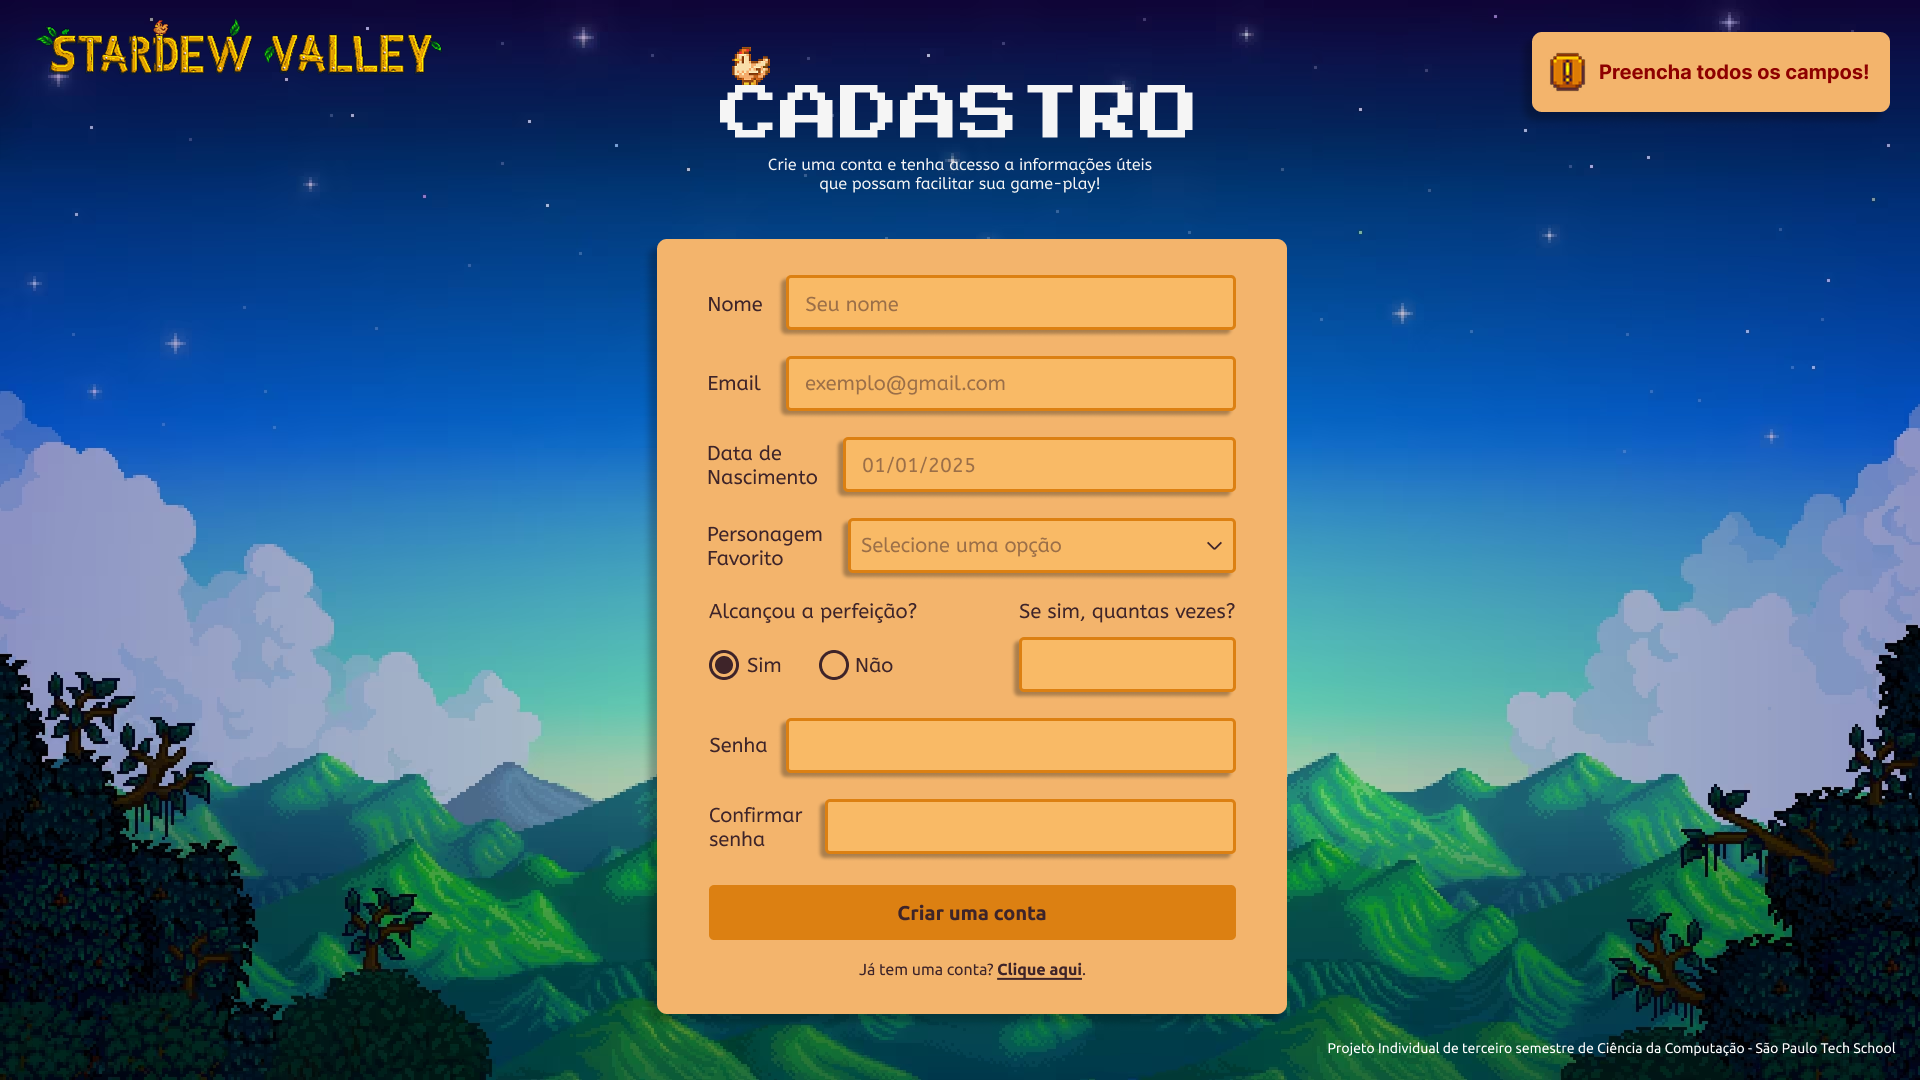
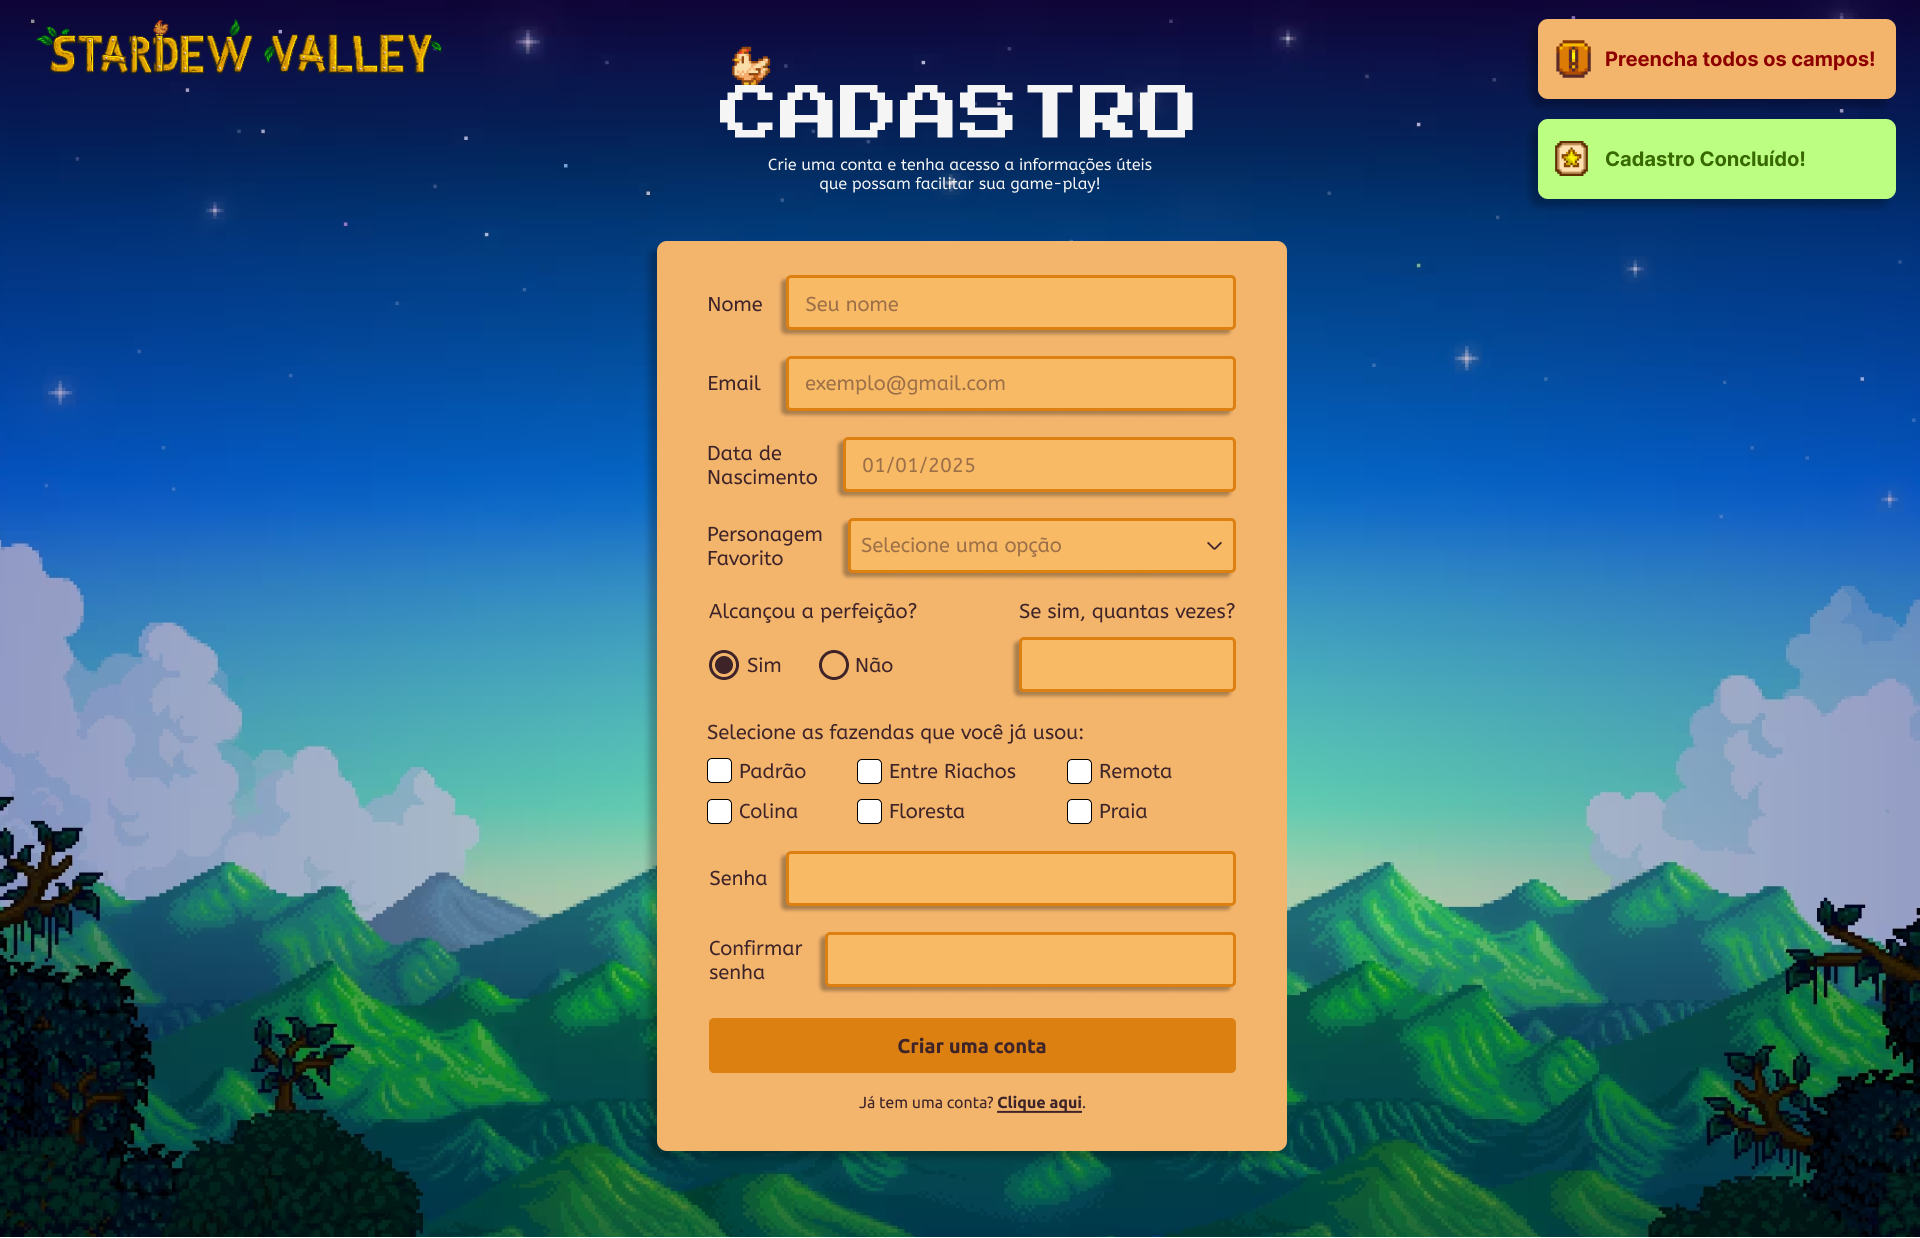
Correção da modelagem e adição do campo fazenda

diff --git a/application/style.css b/application/style.css
@@ -12,13 +12,14 @@ html{
 
 body{
     background-image: url('./assets/images/fundo.png');
-    background-size: cover;
-    background-position: center;
+    /* background-size: cover; */
+    /* background-position: center; */
     background-repeat: no-repeat;
 
     display: flex;
     justify-content: space-between;
     padding: 10px 20px;
+    padding-bottom: 30px;
 }
 
 .logo{
@@ -45,6 +46,21 @@ body{
         width: 38px;
         height: 38px;
         margin-right: 5px;
+    }
+}
+
+.sucesso{
+    background-color: #BCFE82;
+    padding: 12.5px;
+
+    span{
+        color: #386900;
+        margin-left: 5px;
+    }
+
+    img{
+        width: 29px;
+        height: 29px;
     }
 }
 
@@ -87,8 +103,8 @@ body{
     flex-direction: column;
     background-color: #F3B46C;
     border-radius: 5px;
-    padding: 20px 30px 15px 30px;
-    gap: 15px;
+    padding: 25px 30px 20px 30px;
+    gap: 18px;
     color: #3E2429;
     box-shadow: -6px 6px 6px 1px #0000005d;
 }
@@ -103,7 +119,7 @@ body{
 
 .formulario button, select, input{
     font-size: 12px;
-    height: 32px;
+    height: 36px;
     width: 100%;
 }
 
@@ -201,4 +217,29 @@ input[type="date"] {
 input[type="date"]::-webkit-calendar-picker-indicator {
     display: none;
     -webkit-appearance: none;
+}
+
+.opcoes{
+    display: flex;
+    flex-direction: row;
+    gap: 30px;
+    font-size: 14px;
+}
+
+.labels label{
+    margin-bottom: 10px;
+}
+
+.checkbox span{
+    text-align: start !important;
+}
+
+input[type="number"]::-webkit-inner-spin-button,
+input[type="number"]::-webkit-outer-spin-button {
+    -webkit-appearance: none;
+    margin: 0;
+}
+
+input[type="number"] {
+    appearance: textfield;
 }

diff --git a/application/index.html b/application/index.html
@@ -68,6 +68,37 @@
                 </div>
             </div>
 
+            <div class="checkbox campo-vertical">
+                <span>Selecione as fazendas que você já usou:</span>
+                <div class="opcoes">
+                    <div class="labels">
+                    <label>
+                        <input type="checkbox" id=""> Padrão
+                    </label>
+                    <label>
+                        <input type="checkbox" id=""> Colina
+                    </label>
+                </div>
+                <div class="labels">
+                    <label>
+                        <input type="checkbox" id=""> Entre Riachos
+                    </label>
+                    <label>
+                        <input type="checkbox" id=""> Floresta
+                    </label>
+                </div>
+
+                <div class="labels">
+                    <label>
+                        <input type="checkbox" id=""> Remota
+                    </label>
+                    <label>
+                        <input type="checkbox" id=""> Praia
+                    </label>
+                </div>
+                </div>
+            </div>
+
             <div class="campo">
                 <span>Senha</span>
                 <input id="senha_input" placeholder="******" type="txt">
@@ -88,6 +119,11 @@
         <div class="alerta">
             <img src="./assets/icon/alerta.svg" alt="">
             <span>Preencha todos os campos!</span>
+        </div>
+
+        <div class="alerta sucesso">
+            <img src="./assets/icon/sucesso.svg" alt="">
+            <span>Cadastro Realizado!</span>
         </div>
     </div>
 </body>
